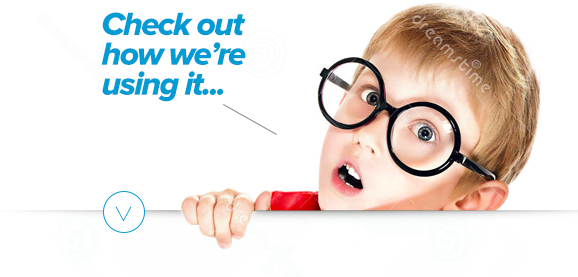
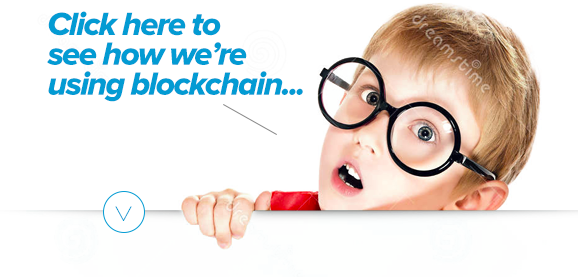
swapping dropdown button img

Changed region(s): [[0.0623, 0.2599, 0.5294, 0.3755], [0.0623, 0.0289, 0.436, 0.1444], [0.0623, 0.1733, 0.436, 0.231]]

diff --git a/includes/_geekOut.html b/includes/_geekOut.html
@@ -5,7 +5,7 @@
       <img src="../images/learn_more.png"/>
     </div>
   </div>
-  <div id="geekOutResources" style="margin-top:25px; display:none;text-align:center">
+  <div id="geekOutResources" style="margin-top:25px;text-align:center">
     <div class="resource-cell">
       <div class="resource-rect">
         <a href="http://www.businessinsider.com/what-is-blockchain-2016-3">
@@ -26,7 +26,7 @@
 
     <div class="resource-cell">
       <div class="resource-rect">
-        <a href="https://www.youtube.com/watch?v=6WG7D47tGb0">
+        <a href="https://autonomous.app.box.com/s/r880n1whjrqrua9ljq9l4b7wd6zqmt67">
           <img src="../images/thumbnails/thumb_backoffice.png" style="width:100%;height:100%"/>
         </a>
       </div>
@@ -35,7 +35,7 @@
 
     <div class="resource-cell">
       <div class="resource-rect">
-        <a href="https://autonomous.app.box.com/s/r880n1whjrqrua9ljq9l4b7wd6zqmt67">
+        <a href="https://www.youtube.com/watch?v=6WG7D47tGb0">
           <img src="../images/thumbnails/thumb_WEF.png" style="width:100%;height:100%"/>
         </a>
       </div>
@@ -61,10 +61,3 @@
     </div>
   </div>
 </div>
-
-<script>
-$('#expand-geekout-btn').click(function() {
-  $('#geekOutResources').slideToggle(500);
-  $('html,body').animate({scrollTop: $("#geekOutResources").offset().top-150}, 'slow');
-});
-</script>

diff --git a/includes/_erpExample.html b/includes/_erpExample.html
@@ -5,15 +5,23 @@
     <div id="erp-header" class="dramatic-header" style="margin:auto; text-align:center">
     </div>
     <div style="width:80%;margin:auto">
-    <img id="erp-img" src="../images/Employee_Recognition_Example_Vertical.png" style="width:100%;margin-top:50px"/>
+    <img id="erp-img" src="../images/Employee_Recognition_Example_Vertical.png"/>
   </div>
     <!--<div class="copy small-copy" style="width:30%">Check out how we're using blockchian to power our employee recognition program!</div>-->
   </div>
 
 
 <script>
+var expanded = false;
 $('.drop-down-div').click(function() {
   $('#erp-example-container').slideToggle(500);
+  if (!expanded) {
+    $('#drop-down-img').attr("src", "../images/how_were_using_it_up.png");
+    expanded = true;
+  } else {
+    $('#drop-down-img').attr("src", "../images/how_were_using_it_down.png");
+    expanded = false;
+  }
   $('html,body').animate({scrollTop: $("#erp-example-container").offset().top-150}, 'slow');
 });
 </script>

diff --git a/includes/_sideMenu.html b/includes/_sideMenu.html
@@ -27,10 +27,6 @@ $(document).ready(function(){
 
   $('#security').click(function(){ $('html,body').animate({scrollTop: $("#_stepOutro").offset().top-100}, 'slow'); $('#side-menu').slideUp(350);});
   $('#callToAction').click(function(){ $('html,body').animate({scrollTop: $("#_callToAction").offset().top-100}, 'slow'); $('#side-menu').slideUp(350);});
-  $('#moreResources').click(function(){
-    $('html,body').animate({scrollTop: $("#_geekOut").offset().top-100}, 'slow');
-    $('#geekOutResources').slideDown(350);
-    $('#side-menu').slideUp(350);
-  });
+  $('#moreResources').click(function(){ $('html,body').animate({scrollTop: $("#_geekOut").offset().top-100}, 'slow'); $('#side-menu').slideUp(350); });
 });
 </script>

diff --git a/includes/_why.html b/includes/_why.html
@@ -2,7 +2,7 @@
   <!--<div class="sub-section-left-content main-copy-container">-->
     <div style="width:50%;float:left">
         <div class="copy">
-          <div class="dramatic-header" id="why-header"></div>
+          <img src="../images/why_header.png" style="width:100%;height:auto"/>
           <div id="why-copy"></div>
         </div>
     </div>

diff --git a/css/layout.css b/css/layout.css
@@ -359,6 +359,12 @@
   margin-right: 10px;
 }
 
+#erp-img {
+  width:100%;
+  margin-top:50px;
+  margin-bottom:50px;
+}
+
 .step-div {
   width: 80%;
   margin:auto;
@@ -410,6 +416,7 @@
   margin:25px;
   display: inline-block;
   width:350px;
+  vertical-align: top;
 }
 
 .resource-rect {
